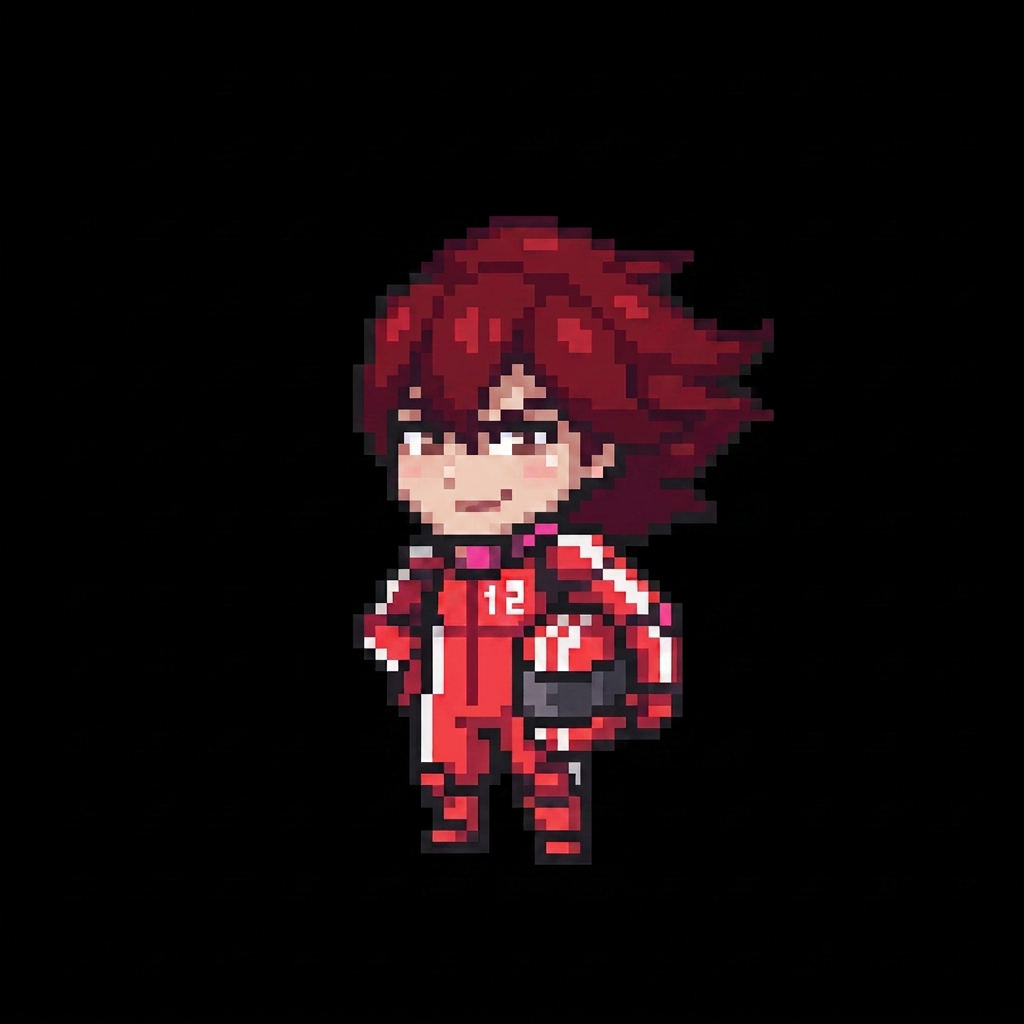
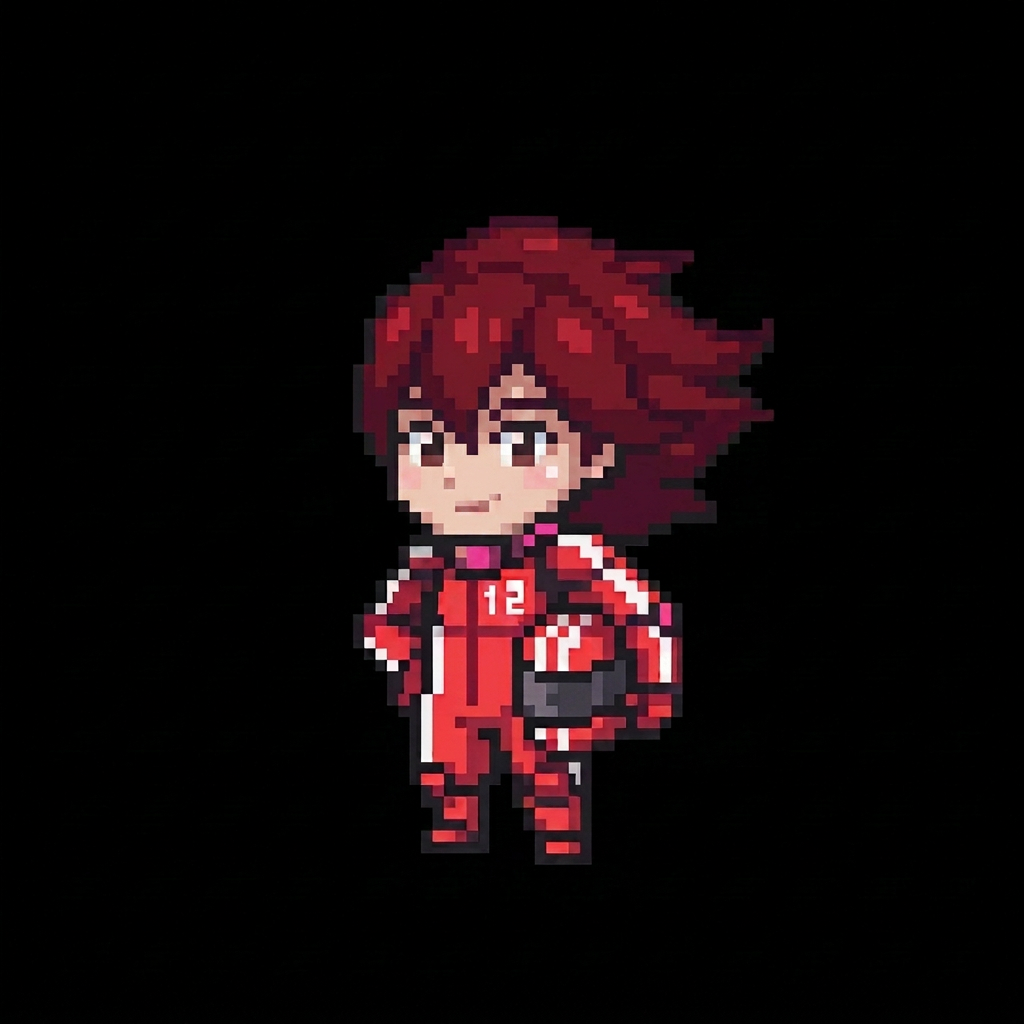
Changes

Changed region(s): [[0.375, 0.375, 0.5625, 0.5], [0.5, 0.5, 0.5312, 0.5312], [0.375, 0.4688, 0.4062, 0.5]]

diff --git a/.lovable/plan.md b/.lovable/plan.md
@@ -1,40 +1,40 @@
-# 3개 아바타 미세 조정
+# 신규 캐릭터 + 그리드 + COMET 수정
 
 ## 변경 내역
 
-### 1. PIXEL — 눈매/눈썹 부드럽게
-- 현재: 눈썹이 진하고 눈빛이 너무 날카로워 차가운 인상
-- 변경:
-  - 눈썹을 더 얇고 부드러운 곡선으로 (날카로운 직선 X)
-  - 눈매는 고양이상(살짝 끝이 올라간 형태) **유지**, 다만 동공/하이라이트를 키워 선하고 따뜻한 인상
-  - 입가 미소 그대로
-- 헤어/슈트/포즈/배경: 그대로 (긴 검정 생머리, 실버 슈트, 헬멧 발치, 검정 배경)
+### 1. 신규 캐릭터 — CORGI (우주복 입은 웰시코기)
+- **ID**: `corgi`
+- **이름**: `CORGI`
+- **태그라인**: `Good boy. Great pilot.`
+- **액센트 컬러**: `#F4A24C` (웰시코기 골드/탠 톤)
+- **이미지 디자인**: 업로드 레퍼런스의 chibi 도트 스타일에 맞춰 우주복 입은 웰시코기 (짧은 다리, 큰 귀, 골드+화이트 털, 작은 헬멧 옆에). 검정 배경.
+- **파일**: `src/assets/avatars/corgi.png`
+- `src/assets/avatars/index.ts`에 import + AvatarId 타입 + AVATARS 배열에 추가
 
-### 2. DRIFT — 헬멧 잡은 손 자연스럽게
-- 현재: 옆구리에 안긴 헬멧과 팔/손의 연결이 어색해 보임 (손이 잘 안 보이거나 비율이 이상함)
-- 변경:
-  - 헬멧을 **한 손으로 옆구리에 자연스럽게 끼고**, 손가락이 헬멧 가장자리에 분명히 보이도록
-  - 팔꿈치 각도와 손목 위치를 자연스럽게 정렬
-  - 다른 한 팔은 옆에 자연스럽게 내려둠
-- 얼굴/헤어/슈트/배경: 그대로 (단발 여캐, teal 슈트, 검정 배경)
+### 2. 캐릭터 선택 그리드 → 3x3
+- 현재: PilotOnboarding은 `grid-cols-2 sm:grid-cols-4`, PilotProfilePanel은 `grid-cols-4` (2행 4열)
+- 변경: 두 파일 모두 **`grid-cols-3`** 으로 통일 → 9개 캐릭터가 3x3로 깔끔히 배치
+- 모바일에서도 3열 유지 (셀이 살짝 작아지지만 9칸 균형 우선)
 
-### 3. COMET — 얼굴만 다르게 (EMBER와 차별화)
-- 현재: EMBER와 얼굴이 거의 동일 (같은 chibi 얼굴 베이스)
+### 3. COMET 얼굴 — 귀엽고 시크하게 재디자인
+- 현재 문제: 표정/이목구비 비율이 어색함
 - 변경:
-  - **얼굴형**을 좀 더 갸름하게
-  - **눈매**: 날카롭고 자신만만한 사선 눈매 (레이서 특유의 도전적인 표정)
-  - **표정**: 입꼬리 한쪽만 살짝 올린 자신감 있는 미소
-  - 광대 살짝 하이라이트, 볼터치 옅게
-- 헤어/슈트/포즈/팔레트/배경: 그대로 (붉은 머리 휘날림, 빨간 레이싱 슈트 #12, 검정 배경)
+  - 얼굴형 기본 chibi 둥글기로 복원 (너무 갸름·각진 느낌 X)
+  - **귀여운 눈매** (살짝 큰 눈) + 차분하고 **시크한 무표정에 가까운 옅은 미소**
+  - 눈썹 자연스러운 곡선, 입은 작고 단정하게
+  - 한쪽 볼터치 살짝
+- 머리/슈트/포즈/배경: 그대로 (붉은 머리 휘날림, 빨간 #12 레이싱 슈트, 검정 배경)
 
 ## 기술 노트
 
-- `imagegen--edit_image` 사용, 기존 이미지 기반 편집
-- 출력 경로 동일: `src/assets/avatars/pixel.png`, `drift.png`, `comet.png`
-- `index.ts` 및 컴포넌트 코드 변경 없음
-- 나머지 5개 아바타는 건드리지 않음
+- `imagegen--edit_image` 사용 (CORGI는 레퍼런스 기반 신규 생성, COMET은 기존 편집)
+- 코드 변경 파일:
+  - `src/assets/avatars/index.ts` — corgi 추가
+  - `src/components/PilotOnboarding.tsx` — 그리드 클래스 수정
+  - `src/components/PilotProfilePanel.tsx` — 그리드 클래스 수정
+- DB schema/타입 변경 없음 (avatar_id는 string)
 
 ## 작업 범위 외
 
-- 다른 캐릭터(NOVA/EMBER/NEBULA/RELIC/AURORA) 변경 없음
-- 메타데이터(이름/태그라인/액센트) 변경 없음
+- 다른 캐릭터(NOVA/EMBER/NEBULA/DRIFT/RELIC/PIXEL/AURORA) 변경 없음
+- 컴포넌트 로직, 헤더, 상세 패널 디자인 변경 없음
